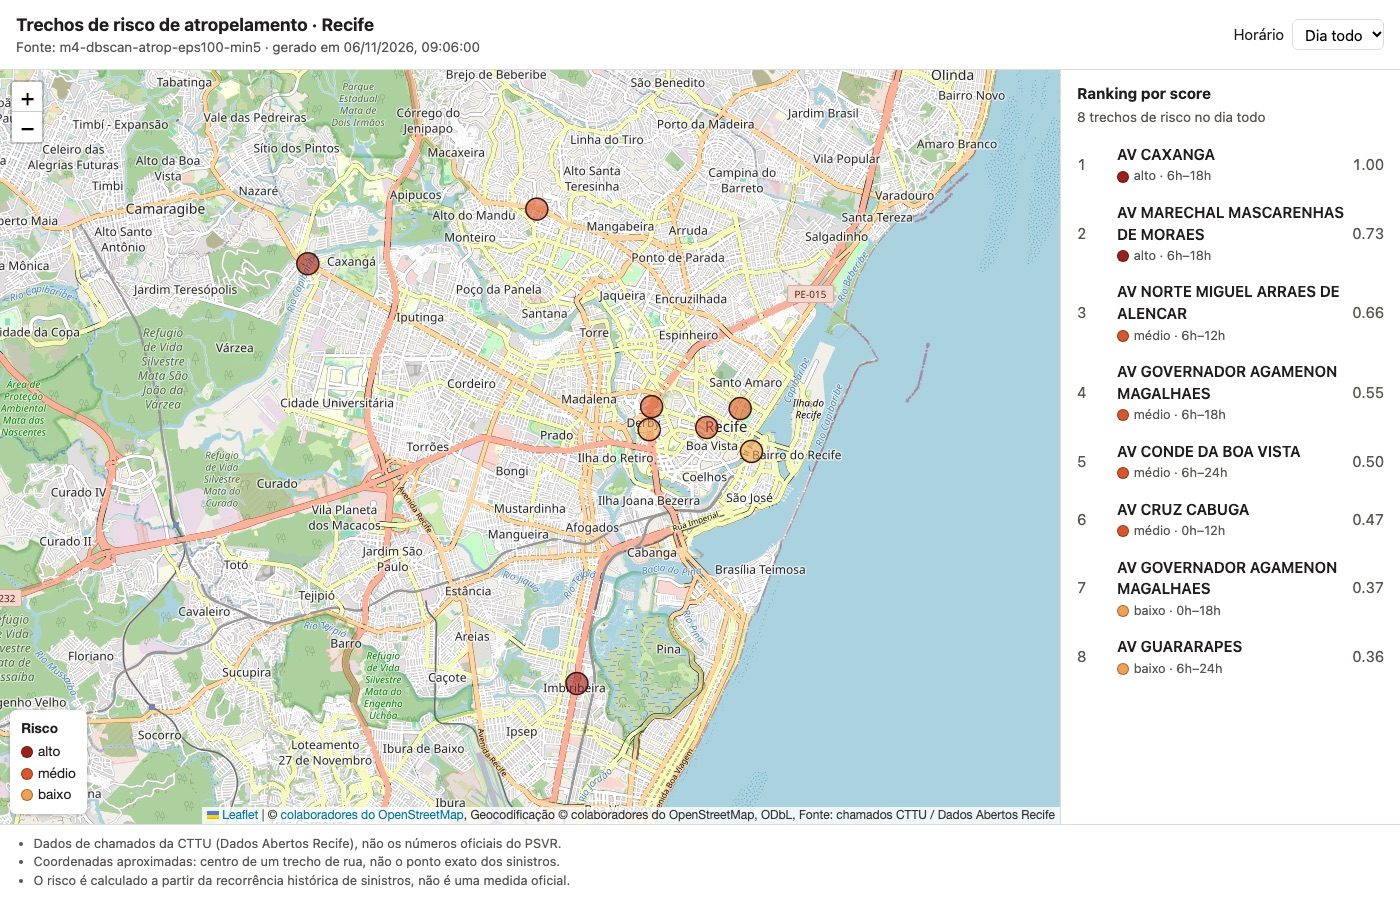
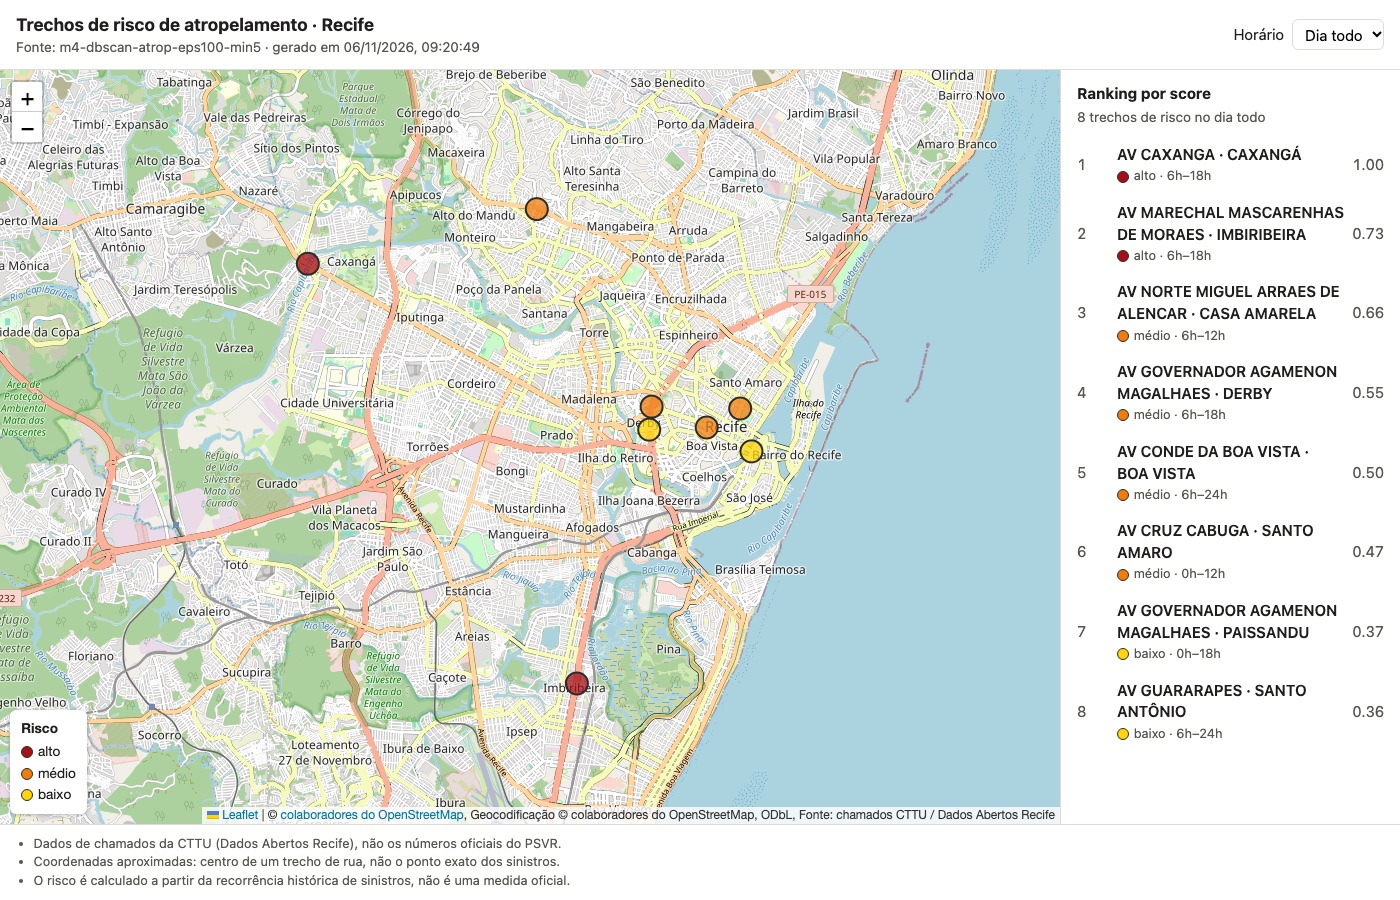
Painel: id nos nomes repetidos, id discreto no popup e print atualizado

diff --git a/painel/index.html b/painel/index.html
@@ -79,6 +79,7 @@
   .popup dl { display: grid; grid-template-columns: auto 1fr; gap: .1rem .6rem; margin: 0; }
   .popup dt { color: var(--texto-2); }
   .popup dd { margin: 0; }
+  .popup .id { margin: .4rem 0 0; color: var(--texto-2); font-size: .75rem; }
   footer {
     padding: .6rem 1rem; border-top: 1px solid var(--borda); background: var(--painel);
     font-size: .8rem; color: var(--texto-2);
@@ -176,15 +177,21 @@ function faixas(horas) {
   return hs.length === 24 ? "dia todo (0h–24h)" : out.join(", ");
 }
 
-function popup(t) {
-  return `<div class="popup"><h3>${esc(t.nome)}</h3><dl>
+// Nome exibido: o id só entra quando dois trechos têm o mesmo nome (ex.: "AV X · c7").
+function rotulos(trechos) {
+  const n = {};
+  for (const t of trechos) n[t.nome] = (n[t.nome] || 0) + 1;
+  return new Map(trechos.map(t => [t.id, n[t.nome] > 1 ? `${t.nome} · ${t.id}` : t.nome]));
+}
+
+function popup(t, nome) {
+  return `<div class="popup"><h3>${esc(nome)}</h3><dl>
     <dt>Risco</dt><dd><span class="chip"><span class="bolinha" style="background:${COR[t.risco]}"></span>${ROTULO[t.risco]}</span></dd>
     <dt>Score</dt><dd>${t.score.toFixed(3)}</dd>
     <dt>Horários de risco</dt><dd>${faixas(t.horas)}</dd>
     <dt>Velocidade segura</dt><dd>${t.vel_segura} km/h</dd>
     <dt>Raio</dt><dd>${t.raio_m} m</dd>
-    <dt>id</dt><dd><code>${esc(t.id)}</code></dd>
-  </dl></div>`;
+  </dl><p class="id">id ${esc(t.id)}</p></div>`;
 }
 
 function focar(id) {
@@ -202,10 +209,11 @@ function render(dados, hora) {
   camada.clearLayers();
   circulos.clear();
   const ordem = [...dados.trechos].sort((a, b) => b.score - a.score);
+  const nome = rotulos(ordem);
   for (const t of ordem) {
     const c = L.circle([t.lat, t.lon], {
       radius: t.raio_m, color: BORDA, weight: 2, fillColor: COR[t.risco], fillOpacity: 0.75
-    }).bindPopup(popup(t)).bindTooltip(esc(t.nome));
+    }).bindPopup(popup(t, nome.get(t.id))).bindTooltip(esc(nome.get(t.id)));
     c.addTo(camada);
     circulos.set(t.id, c);
   }
@@ -215,9 +223,9 @@ function render(dados, hora) {
     `${ordem.length} trecho${ordem.length === 1 ? "" : "s"} de risco ${quando}`;
   const lista = document.getElementById("ranking");
   lista.innerHTML = ordem.length ? ordem.map((t, i) => `
-    <li><button type="button" data-id="${esc(t.id)}" aria-label="${esc(t.nome)}, risco ${ROTULO[t.risco]}, score ${t.score.toFixed(2)}">
+    <li><button type="button" data-id="${esc(t.id)}" aria-label="${esc(nome.get(t.id))}, risco ${ROTULO[t.risco]}, score ${t.score.toFixed(2)}">
       <span class="pos">${i + 1}</span>
-      <span class="nome">${esc(t.nome)}
+      <span class="nome">${esc(nome.get(t.id))}
         <span class="detalhe chip"><span class="bolinha" style="background:${COR[t.risco]}"></span>${ROTULO[t.risco]} · ${faixas(t.horas)}</span>
       </span>
       <span class="score">${t.score.toFixed(2)}</span>
